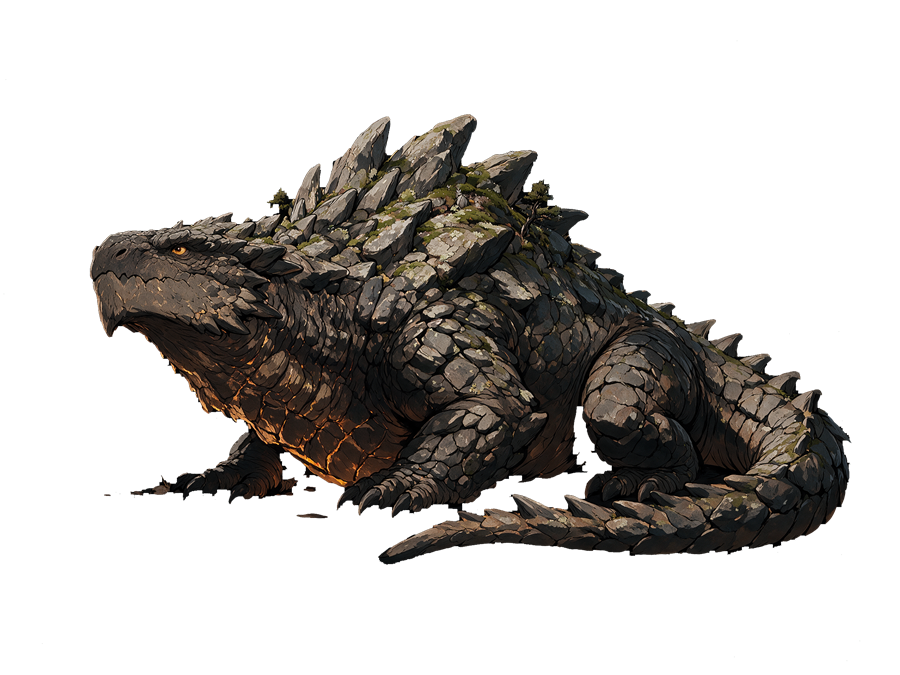
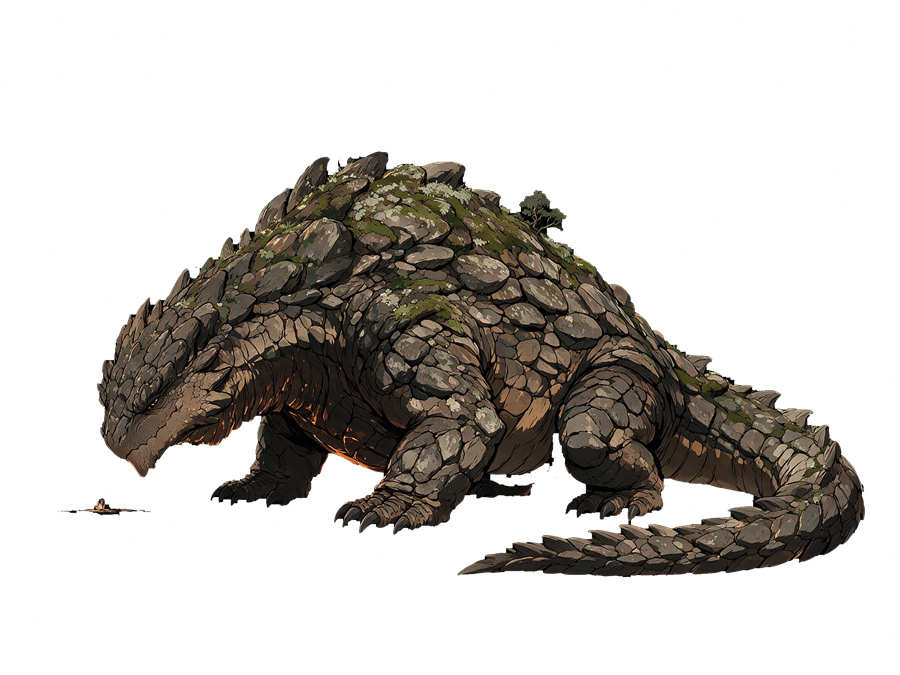
Dragons look DOWN-left now, not level-left
"Faces left" was not enough, and the first four proved it. All of them
faced left and all of them looked LEVEL -- but the dragon sits above the
mage in the scene, so in play the two stared straight past each other.
Two plates, two separate moments.

The eyeline has to be diagonal because the layout is diagonal. She stands
bottom-left looking UP past the top-right corner; they sit upper-right
and must look DOWN past the bottom-left corner. What fixed it in the
prompt was naming the corner and saying "head turned AND LOWERED", then
ruling out level / straight ahead / upward / at the viewer -- the same
shape of instruction that fixed her gaze two builds ago.

Skyrender now stalks with its head dropped below its shoulders,
Cragmourn's skull hangs low off the front of the ridge, and Fathomdread's
neck curves right down out of the coil. Two of them even placed a tiny
figure at the lower left for the eyeline to land on, unprompted.

Keyed identically, 62-70% transparent. Art_Direction_Locked now carries
the diagonal-eyeline rule as a table, since all 64 remaining creatures
need it.

Changed region(s): [[0.0933, 0.1556, 0.9644, 0.8711], [0.0933, 0.7467, 0.1556, 0.7778]]

diff --git a/index.html b/index.html
@@ -20,7 +20,7 @@
 <link rel="manifest" href="manifest.json">
 <link rel="icon" type="image/svg+xml" href="icon.svg">
 <link rel="apple-touch-icon" href="icon-192.png">
-<link rel="stylesheet" href="style.css?v=205">
+<link rel="stylesheet" href="style.css?v=206">
 </head>
 <body>
 <header>
@@ -48,6 +48,6 @@
   </div>
 </main>
 
-<script src="game.js?v=205"></script>
+<script src="game.js?v=206"></script>
 </body>
 </html>

diff --git a/solver.html b/solver.html
@@ -48,8 +48,8 @@
     <p>Loading…</p>
   </div>
 
-  <script src="game.js?v=205"></script>
-  <script src="solver.js?v=205"></script>
-  <script src="measure.js?v=205"></script>
+  <script src="game.js?v=206"></script>
+  <script src="solver.js?v=206"></script>
+  <script src="measure.js?v=206"></script>
 </body>
 </html>
